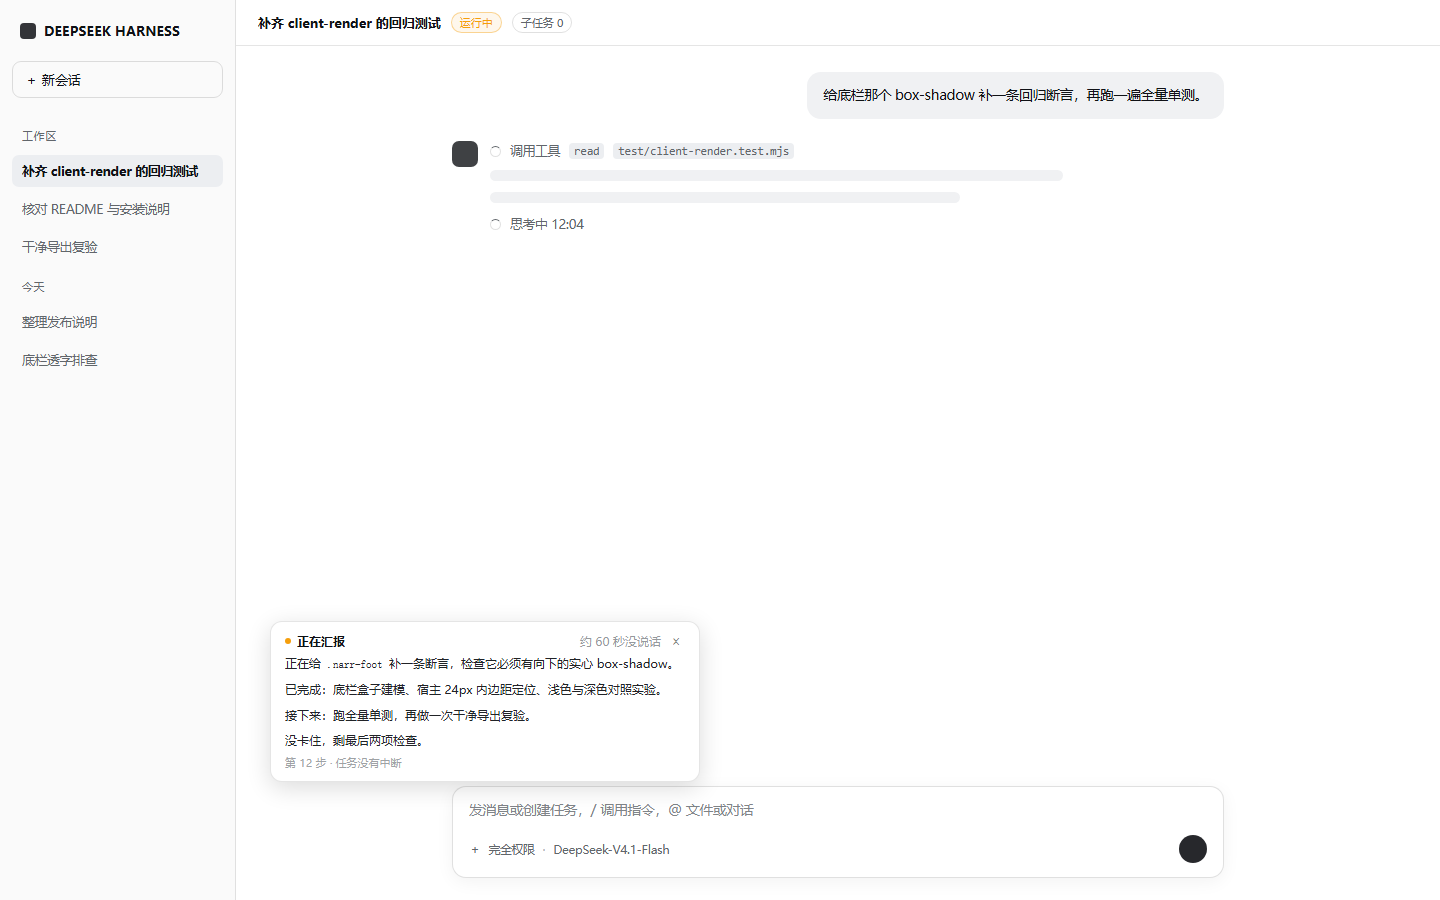
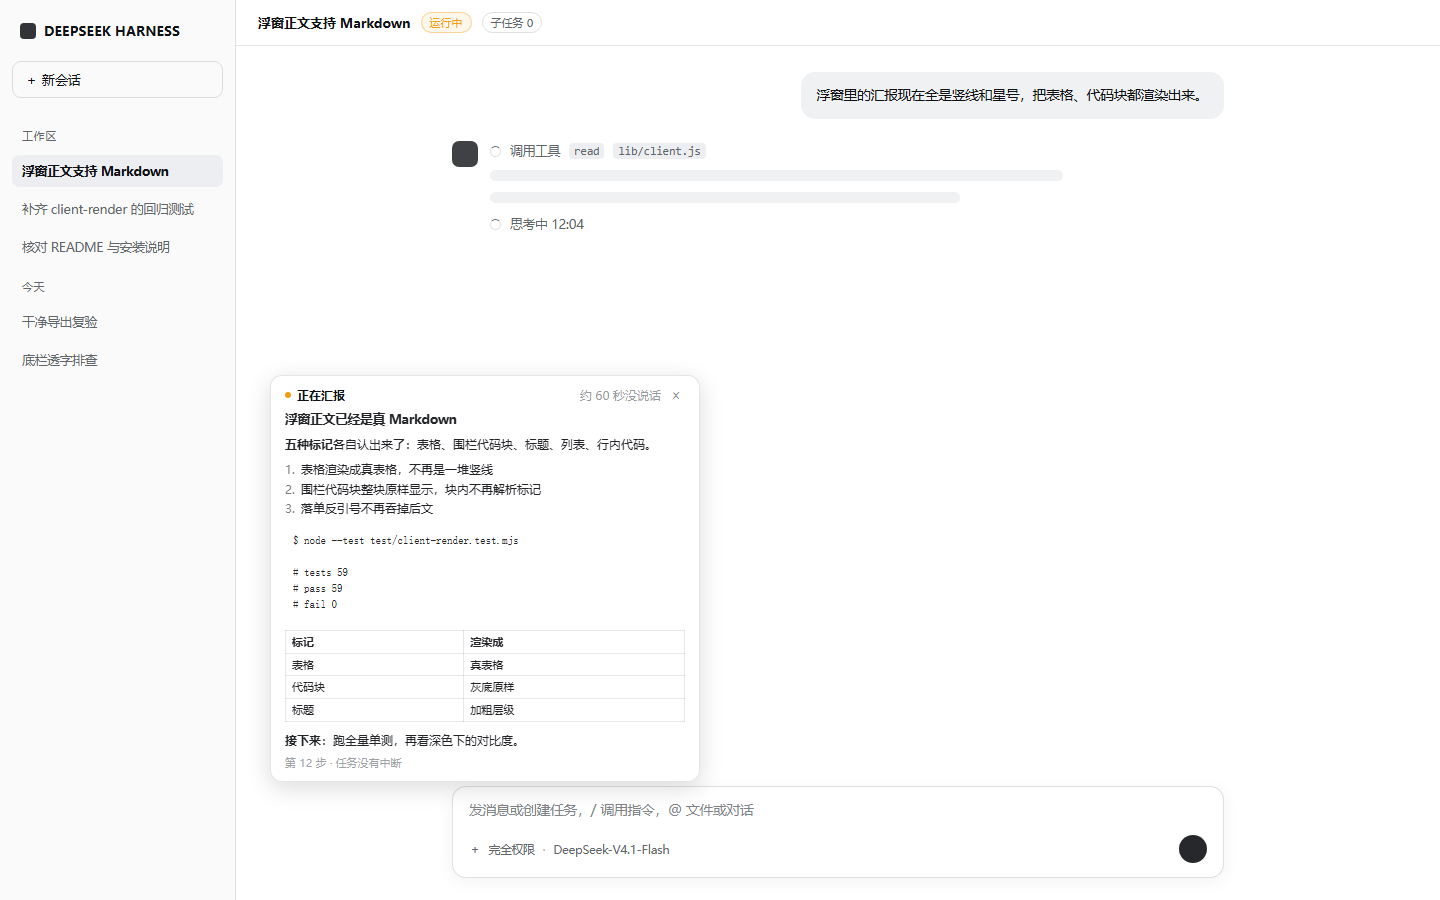
docs: 重出两张浮窗截图，展示 v0.12.5 的 Markdown 渲染
0.12.3 到 0.12.5 之间给浮窗加了整套 Markdown 解析：表格、围栏代码块、
标题、列表、行内代码、粗体斜体。原来的截图是 0.12.2 时代渲染的，
正文只有四行纯文本，看不出这些能力。

screenshot-1（浅色）与 screenshot-4（深色）重出，正文换成一段真实的
汇报：二级标题 + 粗体 + 有序列表 + 围栏代码块 + 表格。会话标题和用户
消息也改成同一件事，不再讲底栏 box-shadow。

screenshot-2 / screenshot-3 内容没变，只是重新截了一次（字节不同、
画面一致）。

顺带把 notes/github-publish.md 里 v0.12.3 的记录标成「已撤，未发布」——
那个 tag 已经删了，远端从来没有过它，原文档却写着「历史，已发布」。

diff --git a/README.md b/README.md
@@ -6,7 +6,7 @@
 
 装上之后，模型静默超过 N 分钟，它会自己用一段正文说清「在做什么、做到哪了、接下来干什么」，**任务不中断**；对话区左下角浮窗同步显示这段原文。
 
-![进度旁白浮窗：模型思考 12 分钟没有任何正文输出时，左下角浮窗显示它刚才说清的四点进展](assets/screenshot-1.png)
+![进度旁白浮窗：模型思考 12 分钟没有任何正文输出时，左下角浮窗把模型刚说的汇报原样显示出来，表格、代码块、列表、标题都按 Markdown 渲染](assets/screenshot-1.png)
 
 ---
 
@@ -52,7 +52,7 @@ if (turnEnds && this.inbox.nextStep.length === 0) break;
 - **图形设置卡。** 分钟级滑杆、可编辑提示词、浮窗透明度与停留时长，全部即时生效不用重启。
 - **浅色深色通用。** 全部颜色走宿主的 `--dsw-alias-*` 令牌，深色主题下浮窗自己切一套底色与描边。
 
-![深色主题下的同一个浮窗](assets/screenshot-4.png)
+![深色主题下的同一个浮窗：表格表头、代码块灰底、粗体与列表符号在深色下都换了自己的颜色](assets/screenshot-4.png)
 
 ## 安装
 

diff --git a/安装与功能说明.md b/安装与功能说明.md
@@ -4,7 +4,7 @@
 
 这是一个 DeepSeek Harness（下称 DSH）插件。解决一个很具体的问题：**模型长时间只思考、不出声时，界面上什么都没有，你不知道它是卡住了还是在干活。**
 
-![进度旁白浮窗：模型思考 12 分钟没有任何正文输出时，左下角浮窗显示它刚才说清的四点进展](assets/screenshot-1.png)
+![进度旁白浮窗：模型思考 12 分钟没有任何正文输出时，左下角浮窗把模型刚说的汇报原样显示出来，表格、代码块、列表、标题都按 Markdown 渲染](assets/screenshot-1.png)
 
 ---
 
@@ -239,7 +239,7 @@ curl http://127.0.0.1:<端口>/api/narrator/status
 - 跟随侧边栏拖拽实时重排位置
 - 自动适配浅色/深色主题
 
-![深色主题下的同一个浮窗](assets/screenshot-4.png)
+![深色主题下的同一个浮窗：表格表头、代码块灰底、粗体与列表符号在深色下都换了自己的颜色](assets/screenshot-4.png)
 
 ---
 

diff --git a/notes/github-publish.md b/notes/github-publish.md
@@ -36,7 +36,9 @@ progress-monitor
 
 ## 4. 发布 Release
 
-已有 Release：**v0.12.2**（首个公开版）、**v0.12.3**、**v0.12.4**。
+已有 Release：**v0.12.2**（首个公开版）、**v0.12.4**。
+
+> v0.12.3 曾打过 tag 与 Release，后来撤掉了；它的全部改动都含在 v0.12.4 里，下面的记录留着当过程稿。
 
 **当前要发**：`v0.12.5`
 
@@ -158,7 +160,7 @@ profile 的 `package.json` 里 **`dependencies` 与 `dsh.profile.bundles` 两处
 
 ---
 
-### v0.12.3（历史，已发布）
+### v0.12.3（已撤，未发布）
 
 **Tag**：`v0.12.3`
 **Title**：`v0.12.3 — 修掉两个毛病：浮窗该走不走、保存栏上跳`
